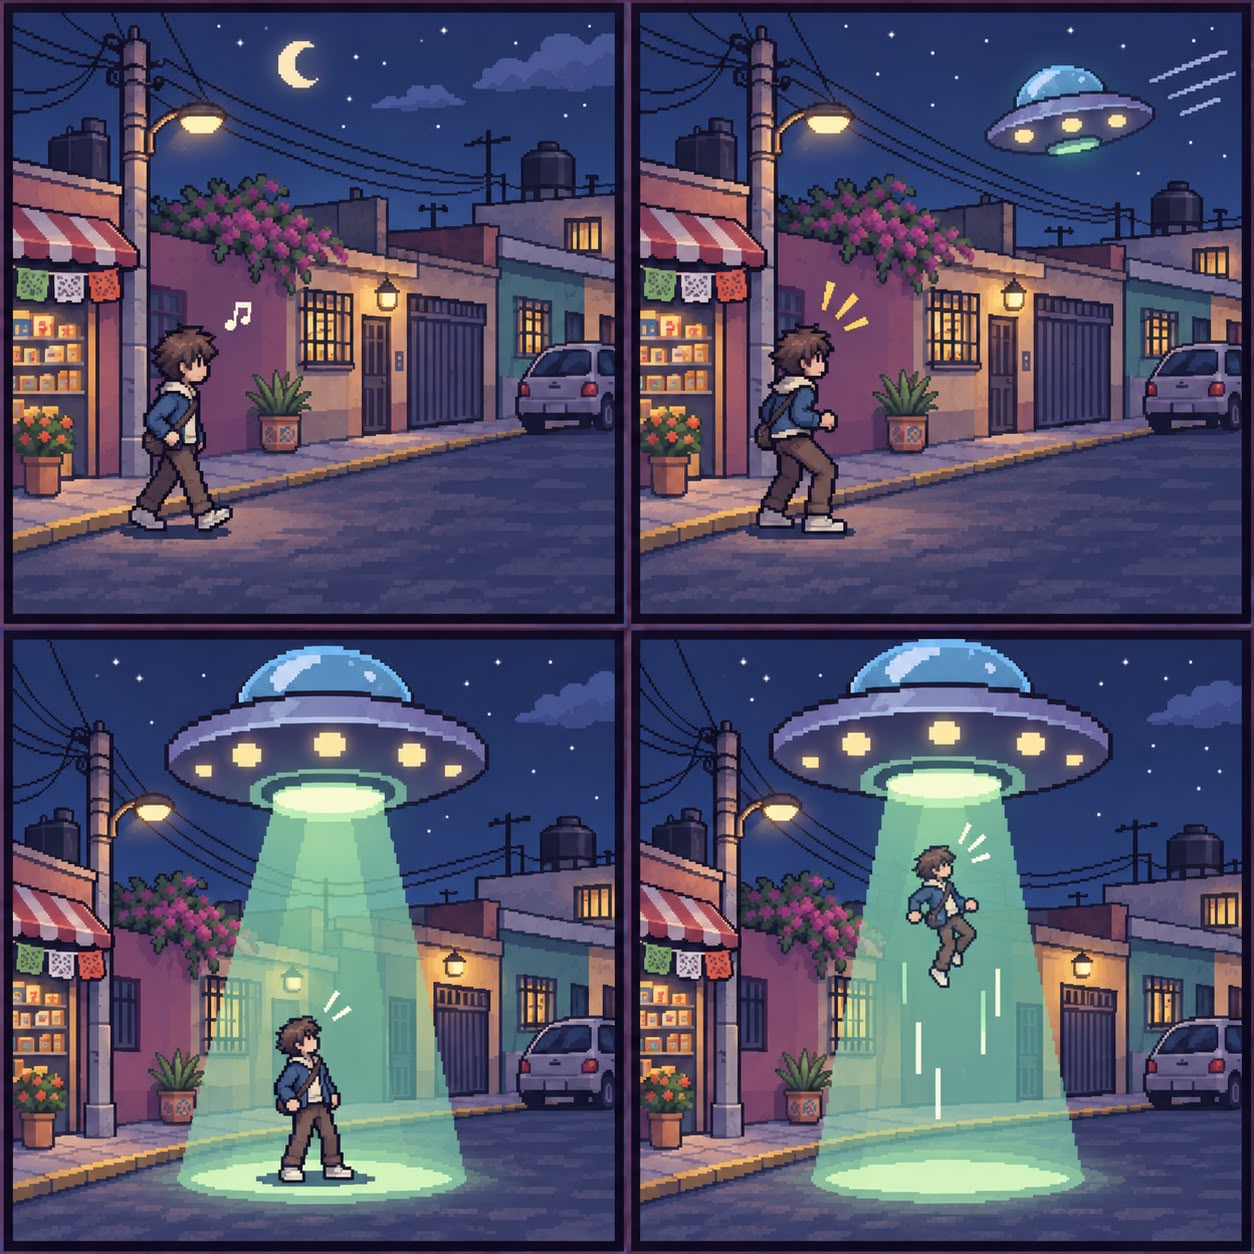
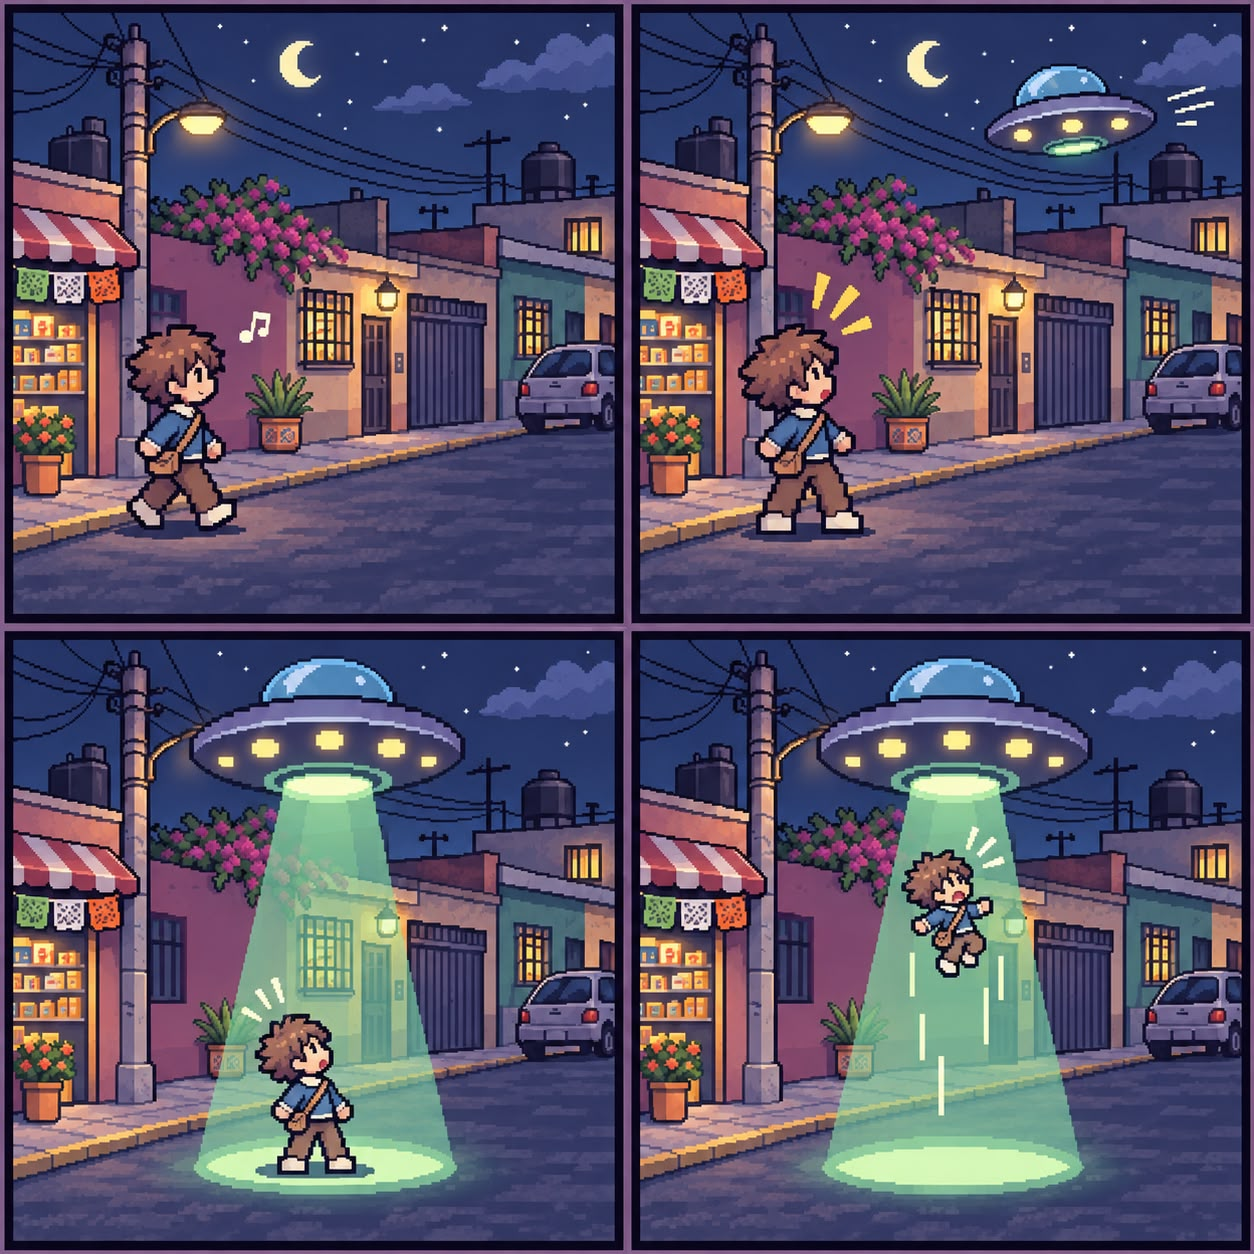
Se le implemento el baile de Noah en las batallas de ritmo de freddie y de elvis

diff --git a/js/game.js b/js/game.js
@@ -1,9 +1,4 @@
 
-
-
-
-
-
 import { Player } from "./player.js";
 import { Enemy } from "./enemy.js";
 import { Character } from "./character.js";
@@ -35,7 +30,7 @@ export class Game {
     this.playerDialoguePortrait = this.loadImage("./assets/Player/Dialogo_player.png");
     this.freddieuxDialoguePortrait = this.loadImage("./assets/Alien/Dialogo_Freddie.png");
     this.elvisDialoguePortrait = this.loadImage("./assets/Alien/Dialogo_Elvis.png");
-    this.playerDanceSprites = [1, 2, 3, 4, 6, 7, 8].map(frame =>
+    this.playerDanceSprites = [1, 2, 3, 4, 5, 6, 7, 8].map(frame =>
       this.loadImage(`./assets/Player/dance${String(frame).padStart(2, "0")}.png`)
     );
     this.playerDanceFrame = 0;
@@ -1770,7 +1765,7 @@ if (
     this.rhythmTime =
       this.getRhythmTime(deltaTime);
 
-    if (this.battleMode === "michael") {
+    if (["tutorial", "elvis", "michael"].includes(this.battleMode)) {
       this.playerDanceTimer += deltaTime;
 
       while (this.playerDanceTimer >= this.playerDanceFrameDuration) {
@@ -2518,7 +2513,7 @@ if (
       355 - this.player.y
     );
 
-    if (this.battleMode === "michael") {
+    if (this.state === "rhythm" || (this.state === "paused" && this.previousState === "rhythm")) {
       const danceSprite = this.playerDanceSprites[this.playerDanceFrame];
 
       if (danceSprite && danceSprite.complete && danceSprite.naturalWidth > 0) {
